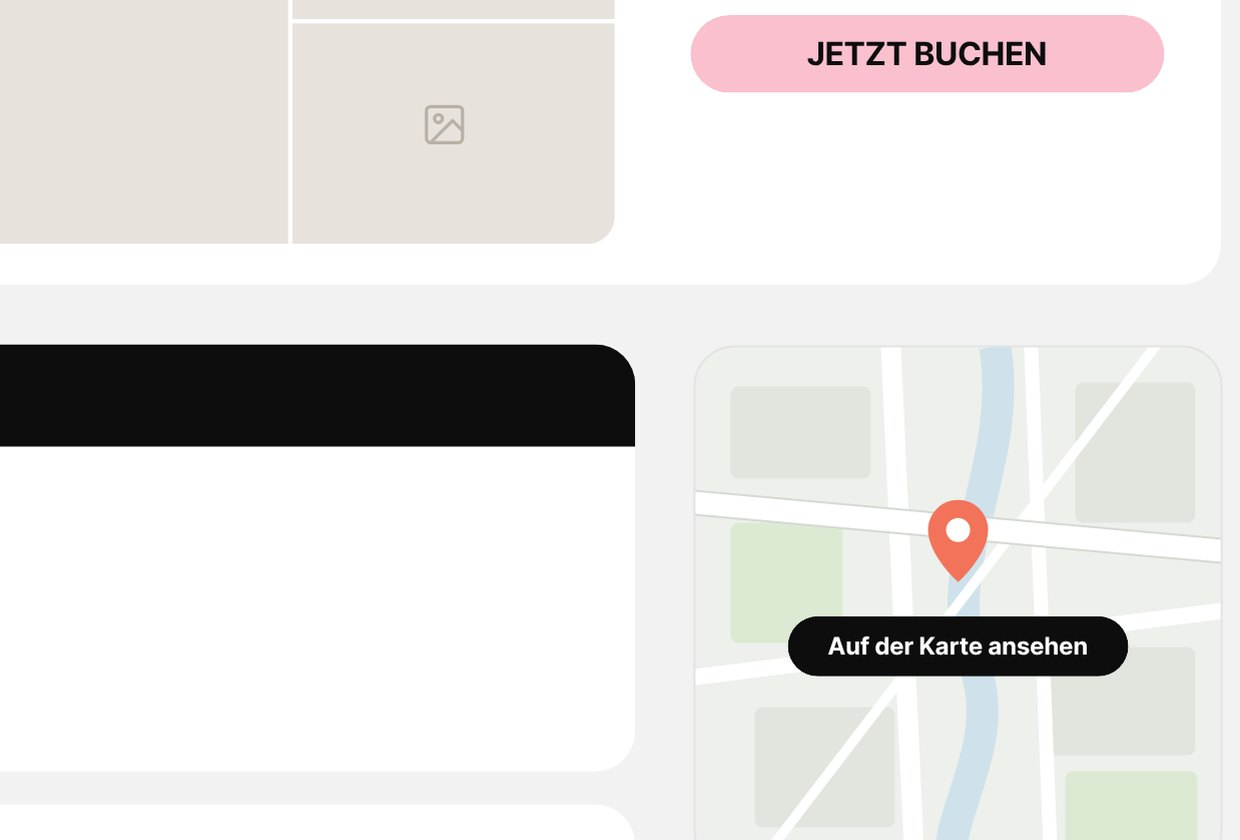
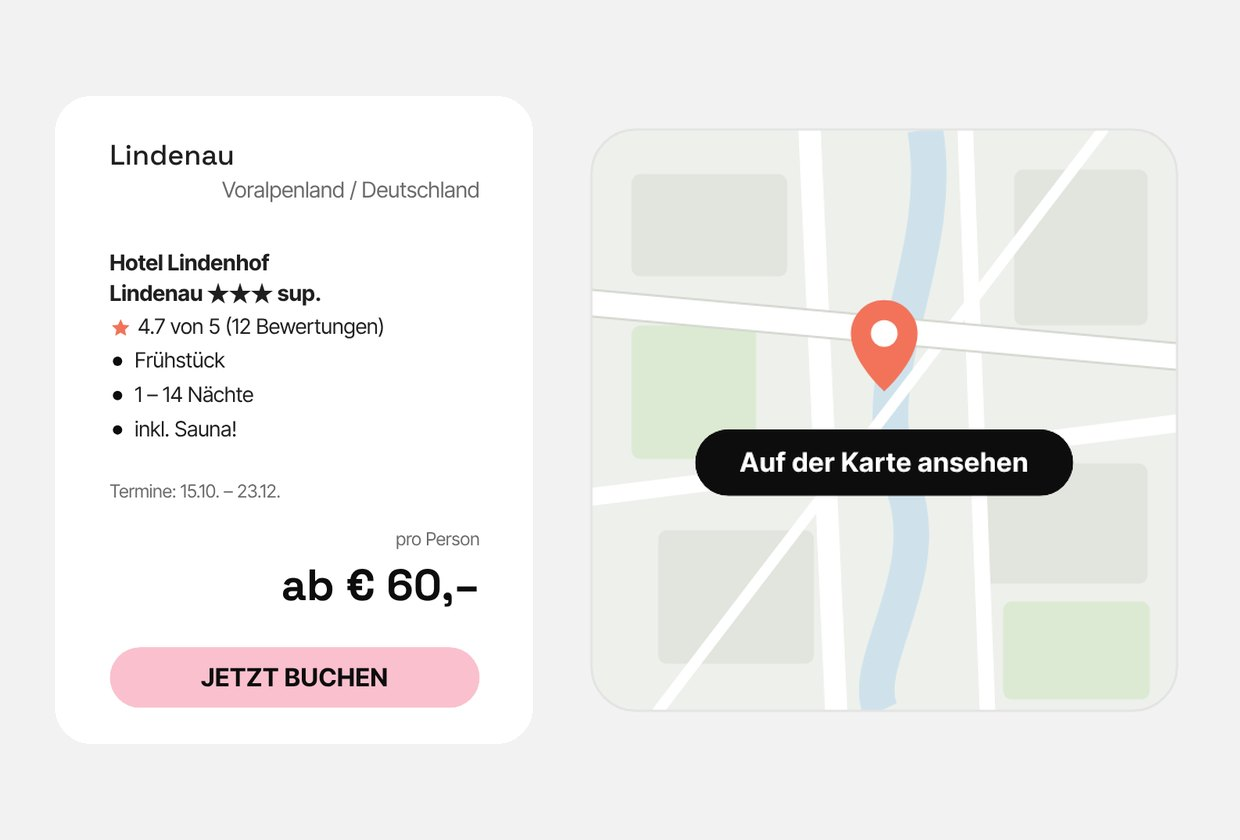
Uplifts in green on case study pages; recomposed hotel location cover
Claude-Session: https://claude.ai/code/session_01VCpzXNqt47KCJFf8eSNXAM

diff --git a/checkout.html b/checkout.html
@@ -71,9 +71,9 @@
     <p class="note reveal" style="margin-top:14px">Screens recreated and anonymised – retailer branding, programme names and brand colours replaced with a fictional shop.</p>
 
     <div class="tldr">
-      <div class="metric reveal"><span class="num">+6.9%</span><p>sales – statistically significant</p></div>
-      <div class="metric reveal" style="--d:.1s"><span class="num">+8.5%</span><p>logins – statistically significant</p></div>
-      <div class="metric reveal" style="--d:.2s"><span class="num">6-figure</span><p>projected additional revenue per year after rollout</p></div>
+      <div class="metric reveal"><span class="num up">+6.9%</span><p>sales – statistically significant</p></div>
+      <div class="metric reveal" style="--d:.1s"><span class="num up">+8.5%</span><p>logins – statistically significant</p></div>
+      <div class="metric reveal" style="--d:.2s"><span class="num up">6-figure</span><p>projected additional revenue per year after rollout</p></div>
     </div>
 
     <div class="cs-body">
@@ -126,11 +126,11 @@
           <h2 class="display">Results: a clear win</h2>
           <p>The variant ran as an A/B test against the original. Both primary goals moved significantly:</p>
           <ul class="list">
-            <li><span><strong>Sales +6.92%</strong> – significant</span></li>
-            <li><span><strong>Logins +8.47%</strong> – significant</span></li>
+            <li><span><strong class="up">Sales +6.92%</strong> – significant</span></li>
+            <li><span><strong class="up">Logins +8.47%</strong> – significant</span></li>
             <li><span>Registrations +13.70% and guest orders +3.76% – positive, but not significant</span></li>
           </ul>
-          <p>Projected over a year, the uplift in sales amounts to a <strong>six-figure additional revenue</strong> for the retailer.</p>
+          <p>Projected over a year, the uplift in sales amounts to a <strong class="up">six-figure additional revenue</strong> for the retailer.</p>
           <p class="note">Measured per visit. Absolute figures omitted for confidentiality.</p>
         </section>
 

diff --git a/location-map.html b/location-map.html
@@ -71,7 +71,7 @@
     <p class="note reveal" style="margin-top:14px">Screens recreated and anonymised – operator branding, hotel, destination and photos replaced with a fictional travel shop.</p>
 
     <div class="tldr">
-      <div class="metric reveal"><span class="num">+9.7%</span><p>sales – the primary goal</p></div>
+      <div class="metric reveal"><span class="num up">+9.7%</span><p>sales – the primary goal</p></div>
       <div class="metric reveal" style="--d:.1s"><span class="num">98.5%</span><p>statistical significance</p></div>
       <div class="metric reveal" style="--d:.2s"><span class="num">52k+</span><p>visitors in the test – recommended for rollout</p></div>
     </div>
@@ -123,7 +123,7 @@
         <section id="results" class="reveal">
           <span class="eyebrow">04</span>
           <h2 class="display">Results: a clear win</h2>
-          <p>Variant 2 won: <strong>+9.7% sales at 98.5% significance</strong>, measured across more than 52,000 visitors. The variant was recommended for rollout.</p>
+          <p>Variant 2 won: <strong class="up">+9.7% sales at 98.5% significance</strong>, measured across more than 52,000 visitors. The variant was recommended for rollout.</p>
           <p>Booking a hotel is a considered purchase with a low base conversion rate – which makes an effect of this size on the primary goal all the more meaningful.</p>
           <p class="note">Absolute conversion rates omitted for confidentiality.</p>
         </section>

diff --git a/style.css b/style.css
@@ -205,6 +205,7 @@
   .metric{background:var(--surface);border-radius:var(--radius);padding:28px;display:flex;flex-direction:column;gap:8px}
   .metric .num{font-family:"Space Grotesk",sans-serif;font-weight:500;font-size:clamp(36px,3.6vw,48px);letter-spacing:-.02em;line-height:1.1}
   .metric .num.neutral{color:#f2c94c}
+  .metric .num.up,.cs-content strong.up{color:var(--green)} /* uplifts in green, like on the homepage */
   .metric p{color:var(--muted);font-size:15px}
   .cs-body{display:grid;grid-template-columns:240px minmax(0,800px);gap:80px;padding-top:48px}
   .toc{position:sticky;top:110px;align-self:start;display:flex;flex-direction:column;gap:14px;font-size:15px}
